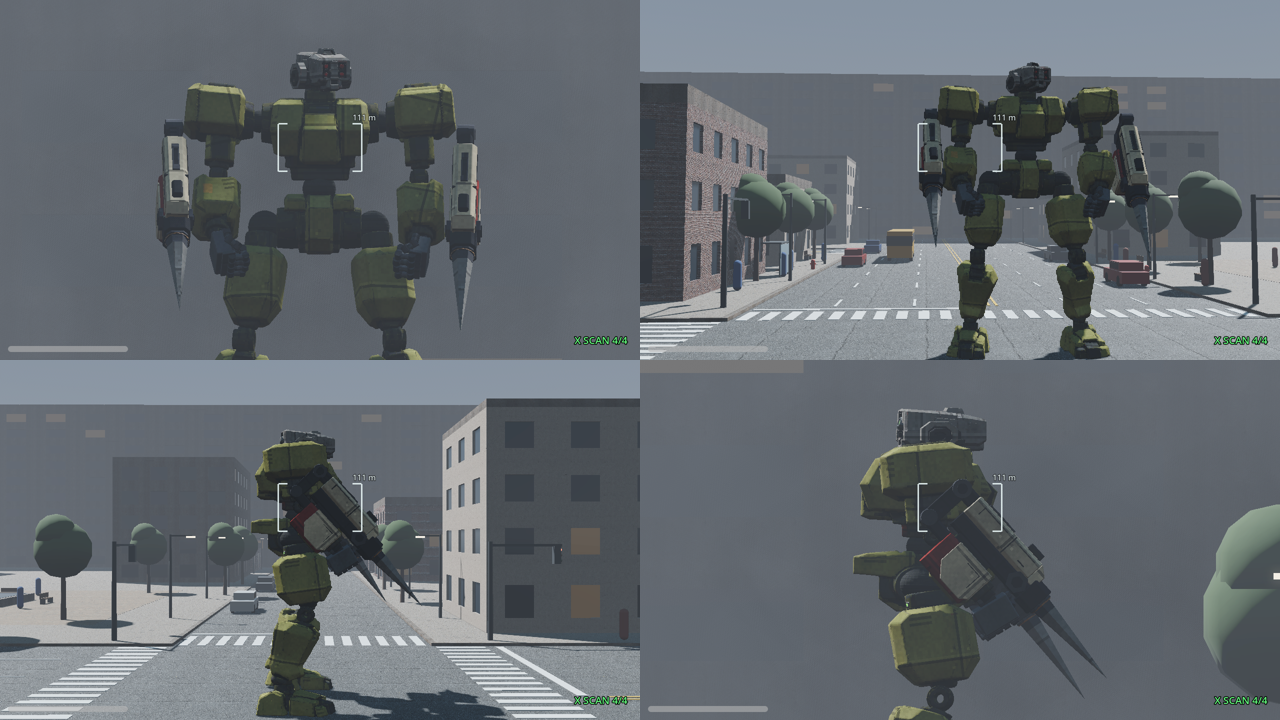
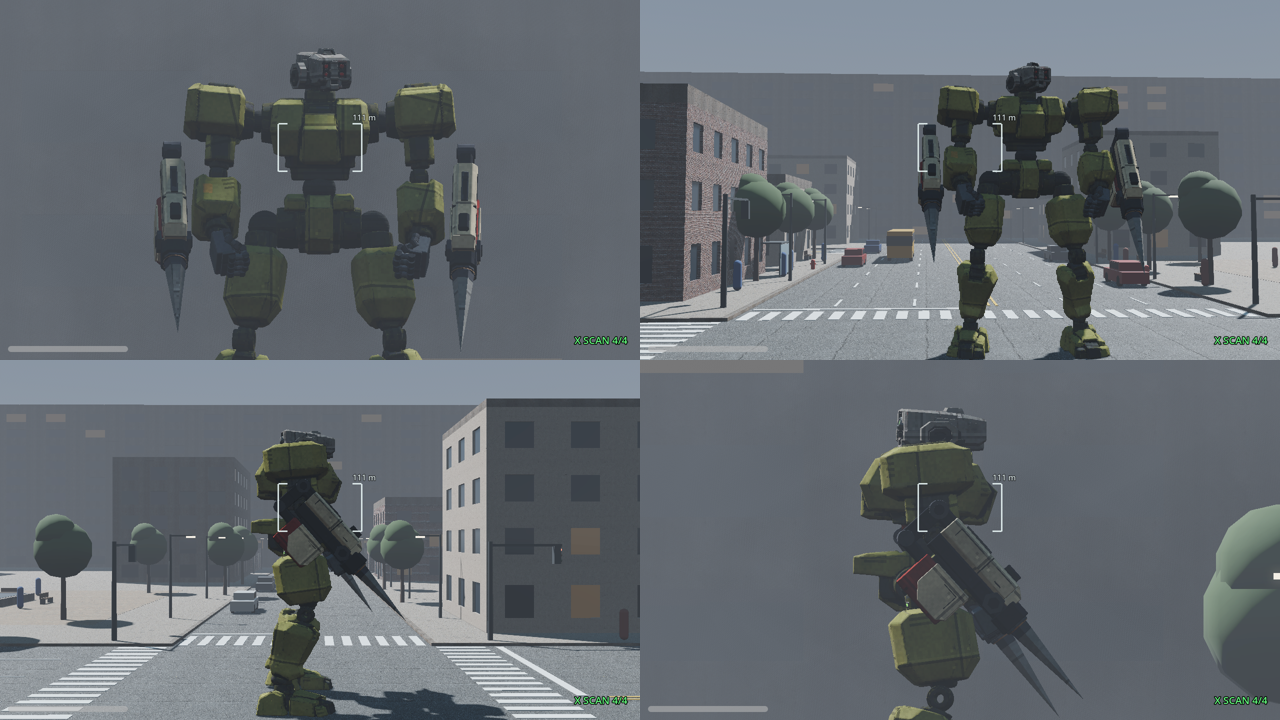
Pile Bunker 3: spike in line with the forearm (mount tool ALIGN=axis); DESIGN
Claude-Session: https://claude.ai/code/session_01UQXMMRgXR9bJ6vcA1ScowF

diff --git a/DESIGN.md b/DESIGN.md
@@ -905,7 +905,7 @@ User brief: assemble the four AI-made parts in `models/medium/` (head, torso, le
 - User picture `models/guides/pilebunker_3_ref.png` (3/4, front, side, top). Script `tools/blender/pilebunker_3_build.py` writes `models/pilebunker_3/pilebunker_3.blend` and `.glb` (1,958 triangles). Pictures: `pilebunker_3_preview.png`, `pilebunker_3_in_game.png` in `models/pilebunker_3/`.
 - Shape: tan upper housing (top rail, black sight block, slanted front), black core, black collar with dark hex side pads, a red magazine box under the back with tan side slabs and a small lamp (Drum), a jointed black mount arm behind (`WITH_MOUNT_ARM`), one long six-sided steel spike (2.2 m past the collar, base radius 0.23 m, sharp point). Colors from the picture: tan, dark grey, black, red, steel.
 - Back to collar front (Nose) 2.7 m, as the other Pile Bunkers. Same node names (Stake, Nose, Mount, Drum, NoseRing).
-- In the game: `scenes/weapons/pile_bunker_3.tscn` (`PileBunkerWeapon`, no drill spin), `data/weapons/pile_bunker_3.tres` (the first Pile Bunker's values, 2.8 t; also in `tools/mech_gen/weapons.py`), both arm lists of the garage catalog (hand edit, as Pile Bunker 2). Mount: `compute_pile_bunker_mount.gd` with `MODEL=res://models/pilebunker_3/pilebunker_3.glb MIRROR=none`; the model's bottom (the magazine) is level with the forearm armor's bottom, so the housing sits above the forearm.
+- In the game: `scenes/weapons/pile_bunker_3.tscn` (`PileBunkerWeapon`, no drill spin), `data/weapons/pile_bunker_3.tres` (the first Pile Bunker's values, 2.8 t; also in `tools/mech_gen/weapons.py`), both arm lists of the garage catalog (hand edit, as Pile Bunker 2). Mount: `compute_pile_bunker_mount.gd` with `ALIGN=axis MODEL=res://models/pilebunker_3/pilebunker_3.glb MIRROR=none` (user request 2026-10-31: "lower the housing so the spike aligns with the forearm"): the spike axis is level with the middle of the forearm armor's height, on the outer side; the magazine hangs below the forearm. Before, the model's bottom was level with the armor's bottom and the housing sat 0.7 m higher.
 - Test: `BUNKER=res://data/weapons/pile_bunker_3.tres` with `test_pile_bunker_hit.gd`: 0 failures.
 
 ## Beam Rifle (user design, Blender model, in the game since 2026-10-11)
@@ -1174,7 +1174,7 @@ scripts/combat/     mech_health.gd, part_hitbox.gd, part_breaker.gd, mech_death.
 - "Align shoulders and arm swings during holding war hammer and baton with shoulder and arm swings with fists": the holding arm followed the walk clip (its shoulder block rose and tilted). Now `WeaponController._swings_like_fist` (a HAMMER-kind weapon in the right hand): when it does not swing, the arm takes the fist hang target (`_update_fist_arms`, `fist_hang_target`) and its IK runs, so `SkeletalArmRig` gives it the relaxed hang and the stride swing like a fist arm (level block); the weapon rides the hand. During a swing the target is null and the clip has the arm as before. Test: test_melee_combo, test_stability, test_weapon_hands, test_hit_reactions 0 failures; renders `render_rifle.gd` RIFLE_RIGHT=hammer / baton, RIFLE_ACTIONS=move_forward, views far, far_front.
 
 ## Reminders for the user
-- Open (2026-10-31, built): play test Pile Bunker 3 (garage, both arms): the place on the forearm (housing above the forearm, magazine at its side), the spike, all 5 clips.
+- Open (2026-10-31, built): play test Pile Bunker 3 (garage, both arms): the place on the forearm (spike in line with the forearm), the spike, all 5 clips.
 - Open (2026-10-31, built): play test Pile Bunker 2 (garage, both arms): the place on the forearm, the drill spin from the power-up to the hit or miss, the pointed tip, all 5 clips.
 - Open (2026-10-31, user: "add testing to reminders"): play test the batch of 2026-10-30: the charging clip and hold-to-charge fists, the right forearm while walking and running with the Pile Bunker, Shift+3 (lower liftoff and landing), part collisions (head, fist hits, arm keep-off), two Pile Bunkers, the knuckle row, the smooth crosshair return, War Hammer and Baton arm swing, and the left-hand mirrored clips (Shift+1, 3, 4, 5).
 - Open (2026-10-25, user): replace the Pile Bunker with a better model (the current one is a placeholder; its fist also misses the grip by up to 0.6 m in the jump guard and while boosting). Needs the new model first (Blender or an upload), then the PS1 skin and the hold. Update 2026-10-26: built and in the game (see "Pile Bunker model"); play test it. The fist miss in the jump guard and while boosting is not measured again (the fist holds no grip; the model sits on the forearm).
